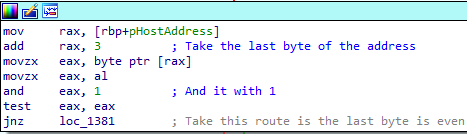
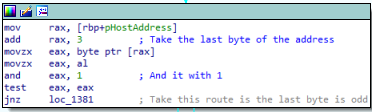
04 - update report and change an image out

diff --git a/Flare-on/2019/04 - Dnschess/Solution - 4 - Dnschess.md b/Flare-on/2019/04 - Dnschess/Solution - 4 - Dnschess.md
@@ -127,7 +127,7 @@ The remaining code is short-circuited if this value is incorrect.
 
 ![dnschess - IDA - AI - getNextMove Loopback Check](https://raw.githubusercontent.com/SecSuperN0va/CTF-Writeups/master/Flare-on/2019/04%20-%20Dnschess/images/dnschess_ida_ai_loopback_check.png)
 
-Second, the final byte of the address is checked to ensure it is an odd number, short-circuiting to return 2 if the final byte is even.
+Second, the final byte of the address is checked to ensure it is an even number, short-circuiting to return 2 if the final byte is odd.
 
 ![dnschess - IDA - AI - getNextMove Oddity Check](https://raw.githubusercontent.com/SecSuperN0va/CTF-Writeups/master/Flare-on/2019/04%20-%20Dnschess/images/dnschess_ida_ai_odd_check.png)
 
@@ -207,18 +207,98 @@ In this section, we will be focussing on identifying the turns which need to be 
 
 I am working on the assumption that the packet capture in `capture.pcap` contains the appropriate turns in some shape or form.
 
-To begin, I installed the scapy module for Python, and wrote a simple script to load the data from `capture.pcap`.
+To begin, I installed the scapy module for Python, and wrote a simple script to load the data from `capture.pcap`. With the packets loaded, the script 
+iterates over them, ignoring any that do not meet the conditions necessary for a valid move to be made. The code to do this looks like this:
 
-I then parsed the packets to remove any responses which failed to meet any of the conditions necessary for a valid move to be made.
+```python
+for packet in rdpcap(pcap_file_path):
+    # ignore the packet if it isn't a DNS response
+    if not packet.haslayer(DNSRR) or not isinstance(packet.an, DNSRR):
+        continue
 
-With this new list of moves, I was able to reconstruct the games that had been played, based on the `TurnCount` value that was encoded 
-within byte 2 of the resolved IP addresses for each response.
+    # Make sure the packet meets the valid response criteria
+    # (i.e. the packet's resolved IP is a properly formed response for the game)
+    ip_bytes = [int(x) for x in packet.an.rdata.split('.')]
 
-When I found a complete set of moves, that is a game for which there were 15 consecutive moves, I was able to manually run the decode operation using the key from each packet, to 
-decode a copy of `localEncodedFlag` and print it to the screen. I won't go into too much more detail, but a copy of this script is included below for clarity.
+    # Check byte 0 (must be 127 - loopback address)
+    if ip_bytes[0] != 127:
+        continue
 
+    # Check byte 3 (must be even for non-resignation)
+    if (ip_bytes[3] & 1) == 1:
+        continue
 
+    # Check byte 2 ()
+    turn_count = ip_bytes[2] & 0x0F
+    print('turn count: {}'.format(turn_count))
+```
 
+The output from this script shows that there is a single packet for each value of `TurnCount` (encoded in byte 2 of the resolved IP address), between 0 and 14.
+
+```
+turn count: 4
+turn count: 1
+turn count: 6
+turn count: 5
+turn count: 11
+turn count: 3
+turn count: 12
+turn count: 13
+turn count: 10
+turn count: 8
+turn count: 9
+turn count: 14
+turn count: 7
+turn count: 2
+turn count: 0
+```
+
+Now we have a collection of valid responses, we can use these to decode the `localEncodedFlag`, which has been recreated as a python `bytearray` object. 
+The script below can be used to fully decode the flag based on the packets contained in `capture.pcap`.
+
+``` python
+import sys
+from scapy.all import rdpcap, DNSRR
+
+localEncodedFlag = [0x79, 0x5A, 0xB8, 0xBC, 0xEC, 0xD3, 0xDF, 0xDD, 0x99, 0xA5,
+                    0xB6, 0xAC, 0x15, 0x36, 0x85, 0x8D, 0x09, 0x08, 0x77, 0x52,
+                    0x4D, 0x71, 0x54, 0x7D, 0xA7, 0xA7, 0x08, 0x16, 0xFD, 0xD7]
+
+localDecodedFlag = bytearray(len(localEncodedFlag)) + bytearray(b"@flare-on.com")
+
+# argv[1] = "./path/to/capture.pcap"
+pcap_file_path = sys.argv[1]
+
+for packet in rdpcap(pcap_file_path):
+    # ignore the packet if it isn't a DNS response
+    if not packet.haslayer(DNSRR) or not isinstance(packet.an, DNSRR):
+        continue
+
+    # Make sure the packet meets the valid response criteria
+    # (i.e. the packet's resolved IP is a properly formed response for the game)
+    ip_bytes = [int(x) for x in packet.an.rdata.split('.')]
+
+    # Check byte 0 (must be 127 - loopback address)
+    if ip_bytes[0] != 127:
+        continue
+
+    # Check byte 3 (must be even for non-resignation packets)
+    if (ip_bytes[3] & 1) == 1:
+        continue
+
+    # Extract the turn count from byte 2
+    turn_count = ip_bytes[2] & 0x0F
+
+    # Extract the key byte from the IP address
+    turn_key = ip_bytes[1]
+
+    # Use the key to decode the relevant 2 bytes of the encoded flag
+    localDecodedFlag[turn_count * 2] = turn_key ^ localEncodedFlag[turn_count * 2]
+    localDecodedFlag[(turn_count * 2) + 1] = turn_key ^ localEncodedFlag[(turn_count * 2) + 1]
+
+print(localDecodedFlag.decode())
+
+```
 
 ## Tools Used
 Tool name|URL (if necessary)
